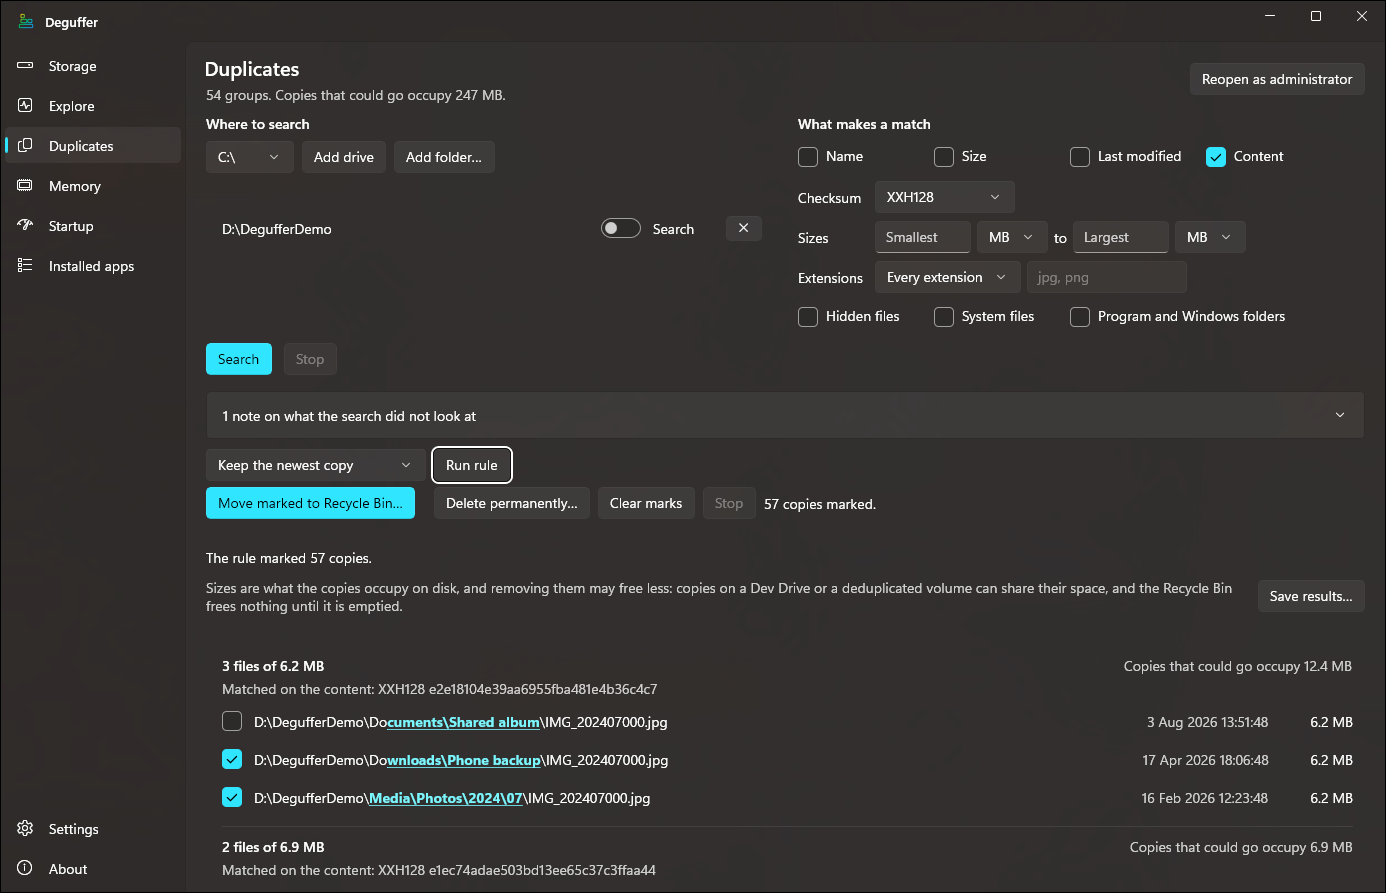
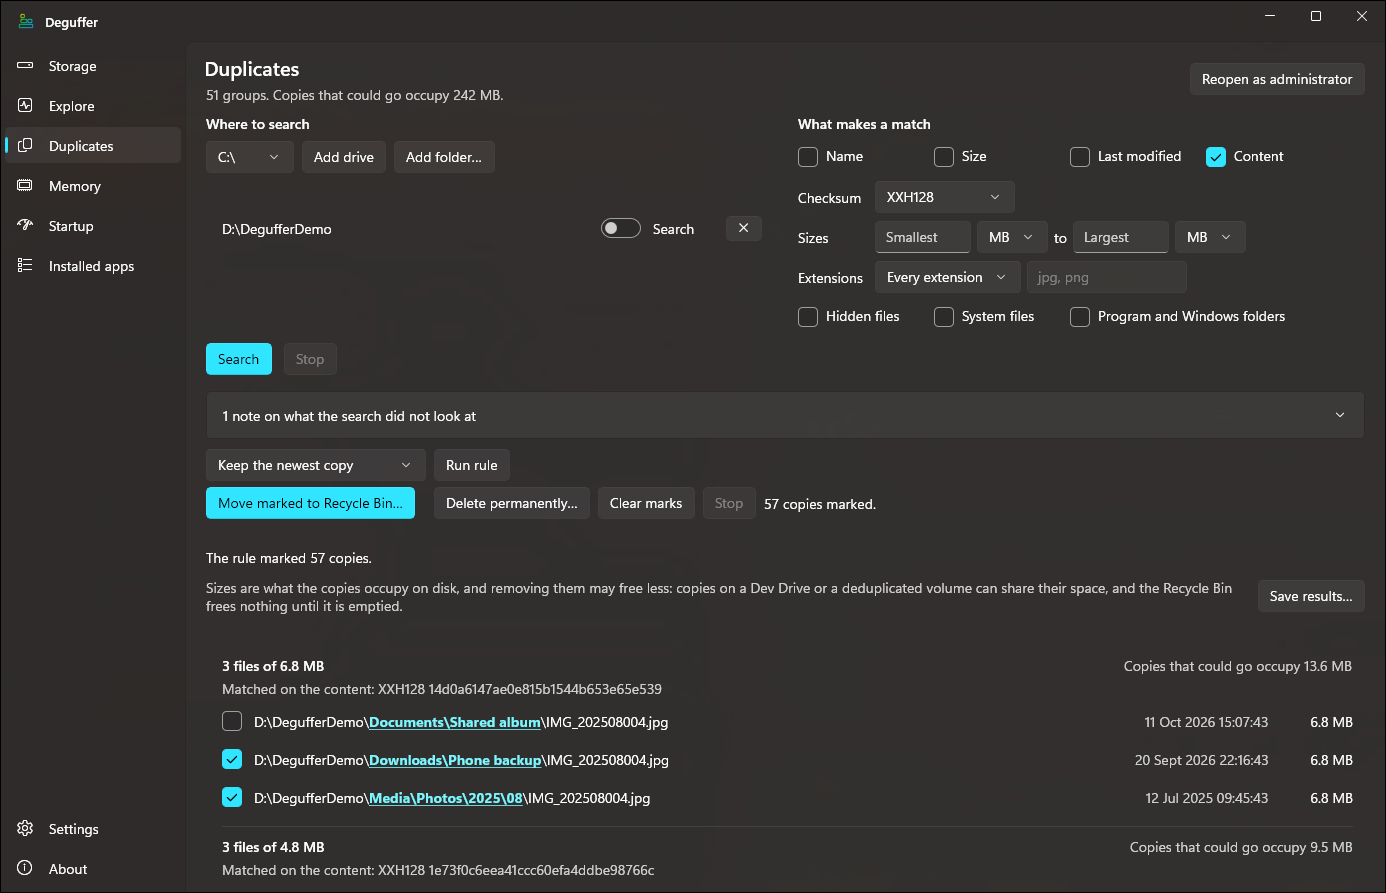
Keep compact sizes whole, and mark whole names where duplicate paths differ widely
The compact Storage row put its size in a fixed 72-pixel column, which
cut an estimate such as "about 1.0 GB" to "about 1.0 (" and would cut
any figure under Windows text scaling. The figure's cell now belongs to
a WidthGroup, which gives every row the width of the widest figure in
the list, so nothing is cut and the tier chips stay in one line.

The Duplicates page marked where each path differs letter by letter, so
"Documents\Shared album" beside "Downloads\Phone backup" was marked from
"cuments", as if the difference began inside the word. The letters are
now kept only where the difference lies inside one name that shares more
with its twin than it differs by, as in "Photos 2023" and "Photos 2O23"
or a numbered copy. Any other difference is widened to the whole names
it touches. The specification states the rule, and the README's
Duplicates screenshot is retaken to show it.

diff --git a/Deguffer.App/Views/CleanPage.xaml b/Deguffer.App/Views/CleanPage.xaml
@@ -26,6 +26,9 @@
         <Thickness x:Key="ExpanderContentPadding">0,4,0,4</Thickness>
         <x:Double x:Key="ExpanderMinHeight">32</x:Double>
 
+        <!-- The compact rows' figure column, one width down the whole list. See CompactFindingRow. -->
+        <controls:WidthGroup x:Key="FigureWidths" />
+
         <!-- The Scan drop-down's locations under their category headings. Handed its source from
              code-behind, as ItemListView's grouped list is. -->
         <CollectionViewSource x:Key="ScanChoiceGroups" IsSourceGrouped="True" />
@@ -42,16 +45,18 @@
             row with nothing to reclaim drops the figure instead — it reads "0 B" or "—", which the
             reason beside it already says in words.
 
-            The figure sits in a fixed-width column and everything to its right of the name is
-            right-aligned against it. WinUI 3 has no SharedSizeGroup and each row builds its own
-            Grid, so a figure column left to Auto comes out at a different width on every row and
-            the chips beside it step raggedly down the page. Pinning that one column is enough:
-            the chip's own column can stay Auto and still start at the same offset from the right
-            on every row, which is what puts the chips in a straight line.
+            The figure sits in a column of one width on every row, and everything to its right of
+            the name is right-aligned against it. Each row builds its own Grid, so a figure column
+            left to Auto alone comes out at a different width on every row and the chips beside it
+            step raggedly down the page. The figure's cell is in a WidthGroup instead, which gives
+            every row the width of the widest figure in the list: the chip's own column can stay
+            Auto and still start at the same offset from the right on every row, which is what puts
+            the chips in a straight line. A fixed width would cut off an estimate such as "about
+            1.0 GB", and any figure under Windows text scaling.
 
-            Only that one column is pinned, because a pinned column is a promise about text the
-            app does not control. Windows text scaling grows the chip, and a fixed column would
-            have it overflow leftwards over the status instead of pushing the name.
+            The chip's column is not grouped, because Windows text scaling grows the chip, and a
+            fixed column would have it overflow leftwards over the status instead of pushing the
+            name.
 
             The name never gives way. It is the row's identity, and a list of rows that no longer
             say which row they are is not a list. So the name column is Auto and the status column
@@ -60,7 +65,7 @@
             minimum width is set so that even that trim is shallow.
         -->
         <DataTemplate x:Key="CompactFindingRow" x:DataType="vm:FindingViewModel">
-            <Grid ColumnSpacing="10" ColumnDefinitions="Auto,Auto,Auto,*,Auto,72" Padding="16,8,0,8">
+            <Grid ColumnSpacing="10" ColumnDefinitions="Auto,Auto,Auto,*,Auto,Auto" Padding="16,8,0,8">
 
                 <!-- §7's sentence, announced where the decision is made. A tooltip cannot serve a
                      screen reader or a keyboard, and this is the control both of them land on to
@@ -122,14 +127,20 @@
                                 AutomationProperties.Name="{x:Bind TierLabel}"
                                 AutomationProperties.HelpText="{x:Bind TierExplanation}" />
 
-                <TextBlock Grid.Column="5"
-                           Text="{x:Bind SizeLabel, Mode=OneWay}"
-                           Visibility="{x:Bind HasSizeToShow, Mode=OneWay}"
-                           ToolTipService.ToolTip="{x:Bind ChangeTip, Mode=OneWay}"
-                           Style="{StaticResource Figure}"
-                           FontSize="15"
-                           TextAlignment="Right"
-                           VerticalAlignment="Center" />
+                <!-- The group is on the cell rather than the figure, so a row whose figure is
+                     hidden still keeps the column's width and its chip stays in line. -->
+                <Border Grid.Column="5"
+                        MinWidth="72"
+                        controls:WidthGroup.Group="{StaticResource FigureWidths}">
+                    <TextBlock Text="{x:Bind SizeLabel, Mode=OneWay}"
+                               Visibility="{x:Bind HasSizeToShow, Mode=OneWay}"
+                               ToolTipService.ToolTip="{x:Bind ChangeTip, Mode=OneWay}"
+                               Style="{StaticResource Figure}"
+                               FontSize="15"
+                               HorizontalAlignment="Right"
+                               TextAlignment="Right"
+                               VerticalAlignment="Center" />
+                </Border>
             </Grid>
         </DataTemplate>
 

diff --git a/Deguffer.Core/Duplicates/PathDifference.cs b/Deguffer.Core/Duplicates/PathDifference.cs
@@ -1,3 +1,5 @@
+using System.Buffers;
+
 namespace Deguffer.Core.Duplicates;
 
 /// <summary>A path cut where it differs from the other paths of its group, for the page to show where.</summary>
@@ -20,6 +22,13 @@ public readonly record struct PathParts(string Same, string Differs, string Same
 /// is. Compared ordinally, case and all, because a case-sensitive folder can hold <c>Photos</c> and
 /// <c>photos</c>, and those differ.</para>
 ///
+/// <para><b>By the letter only where the difference is small.</b> The letters are what a reader needs
+/// where two names are near twins, and only there. <c>Documents\Shared album</c> and
+/// <c>Downloads\Phone backup</c> share <c>Do</c>, and a difference cut after it starts in the middle
+/// of a name and reads as a fault. So a difference keeps its letters only where it lies inside one
+/// name and that name shares more characters with its twin than it differs by. Any other difference
+/// is widened to the whole names it touches.</para>
+///
 /// <para>Found by sorting rather than by comparing every pair: the longest start a path shares with
 /// any other is the one it shares with a neighbour in ordinal order, and the longest end likewise in
 /// the order of the reversed paths, so a group of thousands of copies costs a sort, not millions of
@@ -27,6 +36,8 @@ public readonly record struct PathParts(string Same, string Differs, string Same
 /// </summary>
 public static class PathDifference
 {
+    private static readonly SearchValues<char> Separators = SearchValues.Create(@"\/");
+
     /// <summary>Each of <paramref name="paths"/>, in the same order, cut where it differs from the rest.</summary>
     public static IReadOnlyList<PathParts> Of(IReadOnlyList<string> paths)
     {
@@ -40,12 +51,46 @@ public static class PathDifference
         {
             var path = paths[i];
             var start = WholeCharacters(path, starts[i], fromStart: true);
-            var end = WholeCharacters(path, Math.Min(ends[i], path.Length - start), fromStart: false);
+            var end = path.Length - WholeCharacters(path, Math.Min(ends[i], path.Length - start), fromStart: false);
+            (start, end) = ByLetterOrByName(path, start, end);
 
-            parts[i] = new PathParts(path[..start], path[start..(path.Length - end)], path[(path.Length - end)..]);
+            parts[i] = new PathParts(path[..start], path[start..end], path[end..]);
         }
 
         return parts;
+    }
+
+    /// <summary>
+    /// The difference between <paramref name="start"/> and <paramref name="end"/> as it is, where it
+    /// is small enough to read by the letter, or widened to the whole names it touches.
+    /// </summary>
+    private static (int Start, int End) ByLetterOrByName(string path, int start, int end)
+    {
+        if (start == end)
+        {
+            return (start, end);
+        }
+
+        var nameStart = path.AsSpan(0, start).LastIndexOfAny(Separators) + 1;
+        var after = path.AsSpan(end).IndexOfAny(Separators);
+        var nameEnd = after < 0 ? path.Length : end + after;
+
+        // A difference ending in a separator, or starting with one, ends or starts at a name's edge
+        // already, so the names it touches start after it and end before it.
+        if (path[end - 1] is '\\' or '/')
+        {
+            nameEnd = end;
+        }
+
+        if (path[start] is '\\' or '/')
+        {
+            nameStart = start;
+        }
+
+        var differs = end - start;
+        var withinOneName = path.AsSpan(start, differs).IndexOfAny(Separators) < 0;
+
+        return withinOneName && differs < nameEnd - nameStart - differs ? (start, end) : (nameStart, nameEnd);
     }
 
     /// <summary>

diff --git a/Deguffer.Core.Tests/PathDifferenceTests.cs b/Deguffer.Core.Tests/PathDifferenceTests.cs
@@ -89,12 +89,59 @@ public sealed class PathDifferenceTests
     [Fact]
     public void ACharacterWrittenAsTwoHalvesIsNeverCut()
     {
-        // U+1F600 and U+1F601 share their high half, so a cut by halves would fall inside them.
-        var parts = PathDifference.Of(["C:\\A\uD83D\uDE00\\a.jpg", "C:\\A\uD83D\uDE01\\a.jpg"]);
+        // U+1F600 and U+1F601 share their high half, so a cut by halves would fall inside them. The
+        // folder's name is long enough that the two are near twins, which are read by the letter.
+        var parts = PathDifference.Of(["C:\\Album\uD83D\uDE00\\a.jpg", "C:\\Album\uD83D\uDE01\\a.jpg"]);
 
         Assert.Equal("\uD83D\uDE00", parts[0].Differs);
         Assert.Equal("\uD83D\uDE01", parts[1].Differs);
-        Assert.Equal(@"C:\A", parts[0].Same);
+        Assert.Equal(@"C:\Album", parts[0].Same);
+    }
+
+    /// <summary>
+    /// Two names that share only a letter or two are not near twins, so the difference is the whole
+    /// name, rather than one starting after the letters they happen to share.
+    /// </summary>
+    [Fact]
+    public void NamesThatShareLittleDifferByTheWholeName()
+    {
+        var parts = PathDifference.Of([@"C:\Users\x\Documents\a.jpg", @"C:\Users\x\Downloads\a.jpg"]);
+
+        Assert.Equal(new PathParts(@"C:\Users\x\", "Documents", @"\a.jpg"), parts[0]);
+        Assert.Equal(new PathParts(@"C:\Users\x\", "Downloads", @"\a.jpg"), parts[1]);
+    }
+
+    /// <summary>A difference that runs across a separator is widened to every name it touches.</summary>
+    [Fact]
+    public void ADifferenceAcrossFoldersCoversTheirWholeNames()
+    {
+        var parts = PathDifference.Of([@"D:\Demo\Documents\Shared album\a.jpg", @"D:\Demo\Downloads\Phone backup\a.jpg"]);
+
+        Assert.Equal(new PathParts(@"D:\Demo\", @"Documents\Shared album", @"\a.jpg"), parts[0]);
+        Assert.Equal(new PathParts(@"D:\Demo\", @"Downloads\Phone backup", @"\a.jpg"), parts[1]);
+    }
+
+    /// <summary>
+    /// File names that share only their extension differ by the whole name, extension included,
+    /// rather than leaving <c>.jpg</c> unmarked as if it were what made them twins.
+    /// </summary>
+    [Fact]
+    public void FileNamesThatShareOnlyTheirExtensionDifferWhole()
+    {
+        var parts = PathDifference.Of([@"C:\Pictures\holiday.jpg", @"C:\Pictures\beach.jpg"]);
+
+        Assert.Equal(new PathParts(@"C:\Pictures\", "holiday.jpg", string.Empty), parts[0]);
+        Assert.Equal(new PathParts(@"C:\Pictures\", "beach.jpg", string.Empty), parts[1]);
+    }
+
+    /// <summary>The copy a browser or Explorer names by adding a number is a near twin, and is read by the letter.</summary>
+    [Fact]
+    public void ANumberedCopyDiffersByItsNumber()
+    {
+        var parts = PathDifference.Of([@"C:\Downloads\quote.pdf", @"C:\Downloads\quote (1).pdf"]);
+
+        Assert.Equal(string.Empty, parts[0].Differs);
+        Assert.Equal(" (1)", parts[1].Differs);
     }
 
     /// <summary>Every path comes back whole, in the order it was given.</summary>

diff --git a/Deguffer.App/Controls/WidthGroup.cs b/Deguffer.App/Controls/WidthGroup.cs
@@ -1,0 +1,68 @@
+using Microsoft.UI.Xaml;
+
+namespace Deguffer.App.Controls;
+
+/// <summary>
+/// Elements that all take the width of the widest of them, for a column that has to line up across
+/// rows that each build their own <c>Grid</c>. WinUI 3 has no <c>SharedSizeGroup</c>.
+///
+/// <para>A fixed column width cannot do it, because the column holds text the app does not control:
+/// an estimate reads "about 1.0 GB" and a ceiling "up to 1023.9 MB", and Windows text scaling widens
+/// every figure. A column too narrow for its text cuts the figure off, which is the one thing on the
+/// row that must be read whole.</para>
+///
+/// <para>A member is placed in an <c>Auto</c> column, so it is measured at its own width. When that
+/// is wider than the group's, the group widens, and every member present takes the new width as its
+/// <see cref="FrameworkElement.MinWidth"/>, a member arriving later included. The group never
+/// narrows while the page lives: finding a narrower widest member would mean measuring every member
+/// again without its minimum, and a column left a little wider than it needs is harmless.</para>
+/// </summary>
+public sealed partial class WidthGroup
+{
+    public static readonly DependencyProperty GroupProperty = DependencyProperty.RegisterAttached(
+        "Group", typeof(WidthGroup), typeof(WidthGroup), new PropertyMetadata(null, OnGroupChanged));
+
+    private readonly HashSet<FrameworkElement> _members = [];
+
+    private double _width;
+
+    public static WidthGroup? GetGroup(FrameworkElement element) => (WidthGroup?)element.GetValue(GroupProperty);
+
+    public static void SetGroup(FrameworkElement element, WidthGroup? value) => element.SetValue(GroupProperty, value);
+
+    private static void OnGroupChanged(DependencyObject element, DependencyPropertyChangedEventArgs args)
+    {
+        // Set once from markup on an element that is not yet loaded, which is the only use there is.
+        if (element is FrameworkElement member && args.NewValue is WidthGroup group)
+        {
+            member.Loaded += group.OnLoaded;
+            member.Unloaded += group.OnUnloaded;
+            member.SizeChanged += group.OnSizeChanged;
+        }
+    }
+
+    private void OnLoaded(object sender, RoutedEventArgs args)
+    {
+        var member = (FrameworkElement)sender;
+        _members.Add(member);
+        member.MinWidth = Math.Max(member.MinWidth, _width);
+    }
+
+    // A recycled row's container unloads and loads again, so a member is held only while it is shown.
+    private void OnUnloaded(object sender, RoutedEventArgs args) => _members.Remove((FrameworkElement)sender);
+
+    private void OnSizeChanged(object sender, SizeChangedEventArgs args)
+    {
+        if (args.NewSize.Width <= _width)
+        {
+            return;
+        }
+
+        _width = args.NewSize.Width;
+
+        foreach (var member in _members)
+        {
+            member.MinWidth = _width;
+        }
+    }
+}

diff --git a/docs/todo/_spec.md b/docs/todo/_spec.md
@@ -1194,7 +1194,9 @@ on: what the established duplicate finders do, and the ways their users have los
   with several names count for nothing. Each group names its files with their folders, their sizes,
   their last-modified times, the criteria that matched them and, for a content match, the checksum
   and its algorithm. Where two paths differ by little, the page shows where they differ, because two
-  near-identical folder names are how a user marks the copy they meant to keep.
+  near-identical folder names are how a user marks the copy they meant to keep. It marks the
+  letters that differ only inside one name that shares more with its twin than it differs by, and
+  marks whole names otherwise, so that a difference never appears to start in the middle of a word.
 - **The space shown is what the copies occupy, a removal may free less, and the page says so.** On
   ReFS, which a Dev Drive uses, two copies may share their clusters, because Windows 11 copies by
   block cloning there, and removing one may free nothing. Windows Server's deduplication behaves the
